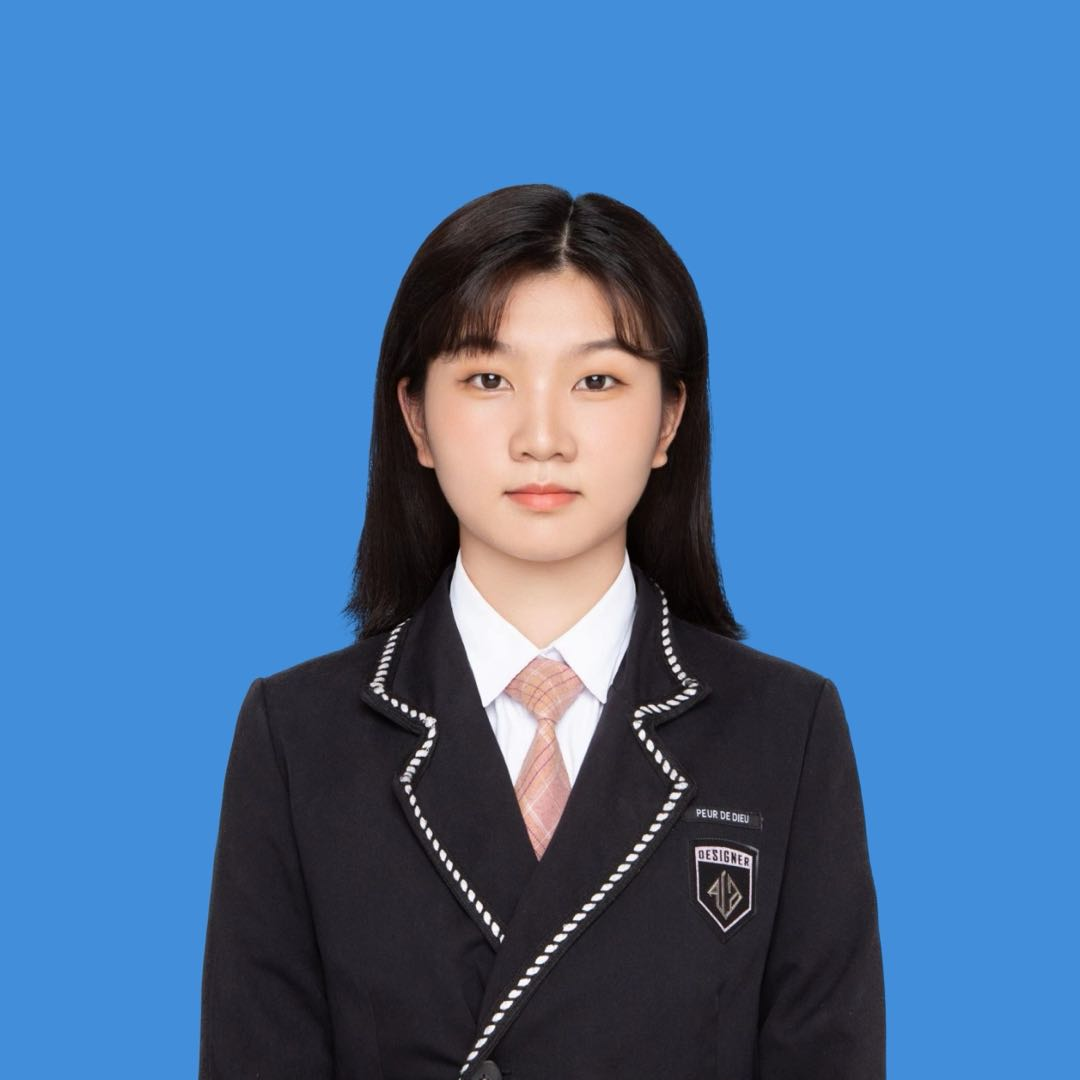
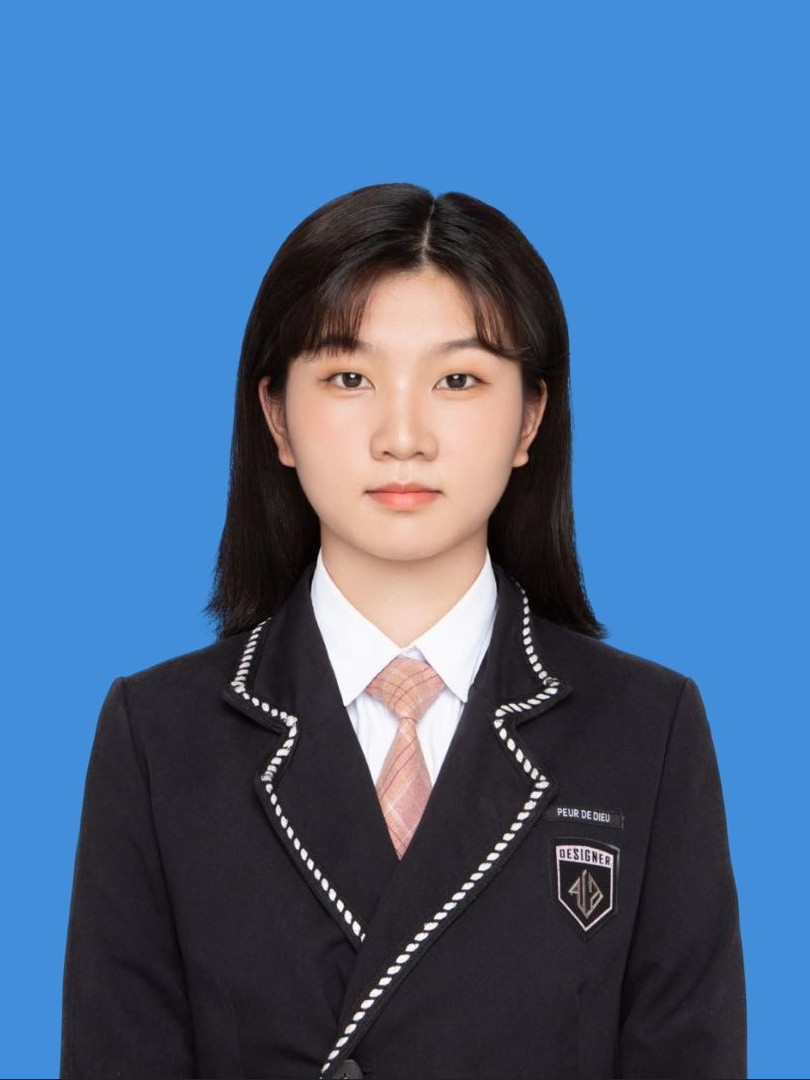
add members

diff --git a/members.md b/members.md
@@ -231,6 +231,9 @@ title: "Group Members"
                 <td>
                     <div align="center" style="text-align:center"><img src="./assets/img/member_avator/2025/25-SongShiyi.jpg" height="200"></div>
                 </td>
+                <td>
+                    <div align="center" style="text-align:center"><img src="./assets/img/member_avator/2026/26-XuXinyang.jpg" height="200"></div>
+                </td>
             </tr>
             <tr>
                 <td>
@@ -241,6 +244,11 @@ title: "Group Members"
                 <td>
                     <div style="text-align:center">
                         <p>Shiyi Song</p>
+                    </div>
+                </td>
+                <td>
+                    <div style="text-align:center">
+                        <p>Xinyang Xu</p>
                     </div>
                 </td>
             </tr>
@@ -411,6 +419,9 @@ title: "Group Members"
                 <td>
                     <div align="center" style="text-align:center"><img src="./assets/img/member_avator/2025/25-ZhongYu.jpg" height="200"></div>
                 </td>
+                <td>
+                    <div align="center" style="text-align:center"><img src="./assets/img/member_avator/2026/26-HaoJiarui.jpg" height="200"></div>
+                </td>
             </tr>
             <tr>
                 <td>
@@ -423,8 +434,61 @@ title: "Group Members"
                         <p>Yu Zhong</p>
                     </div>
                 </td>
+                <td>
+                    <div style="text-align:center">
+                        <p>Jiarui Hao</p>
+                    </div>
+                </td>
             </tr>
             <!-- 第五行结束 -->
+            <tr>
+                <td>
+                    <div align="center" style="text-align:center"><img src="./assets/img/member_avator/2026/26-HuangJiaying.jpg" height="200"></div>
+                </td>
+                <td>
+                    <div align="center" style="text-align:center"><img src="./assets/img/member_avator/2026/26-LiuZhongke.jpg" height="200"></div>
+                </td>
+                <td>
+                    <div align="center" style="text-align:center"><img src="./assets/img/member_avator/2026/26-QuRui.jpg" height="200"></div>
+                </td>
+            </tr>
+            <tr>
+                <td>
+                    <div style="text-align:center">
+                        <p>Jiaying Huang</p>
+                    </div>
+                </td>
+                <td>
+                    <div style="text-align:center">
+                        <p>Zhongke Liu</p>
+                    </div>
+                </td>
+                <td>
+                    <div style="text-align:center">
+                        <p>Rui Qu</p>
+                    </div>
+                </td>
+            </tr>
+            <tr>
+                <td>
+                    <div align="center" style="text-align:center"><img src="./assets/img/member_avator/2026/26-SunFeiyang.jpg" height="200"></div>
+                </td>
+                <td>
+                    <div align="center" style="text-align:center"><img src="./assets/img/member_avator/2026/26-WangZijiang.jpg" height="200"></div>
+                </td>
+            </tr>
+            <tr>
+                <td>
+                    <div style="text-align:center">
+                        <p>Feiyang Sun</p>
+                    </div>
+                </td>
+                <td>
+                    <div style="text-align:center">
+                        <p>Zijiang Wang</p>
+                    </div>
+                </td>
+            </tr>
         </tbody>
 </table>
 
